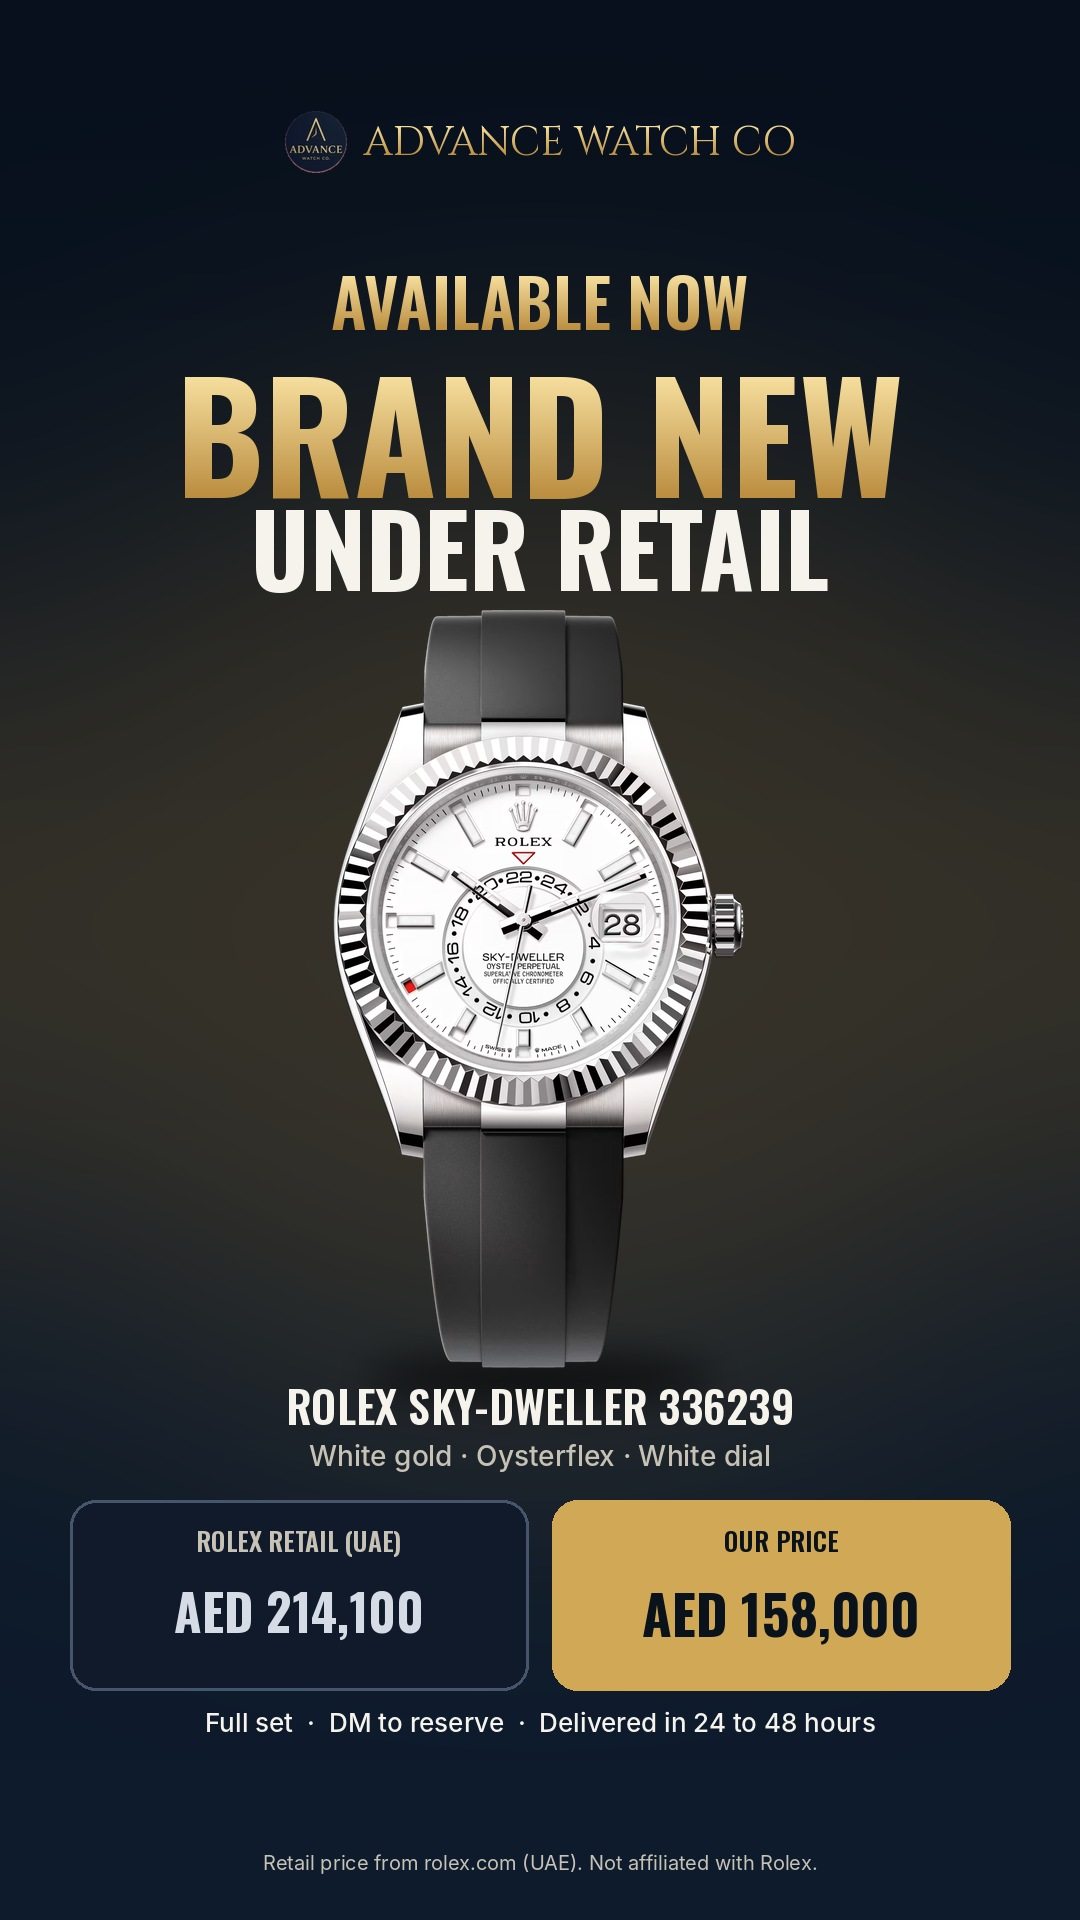
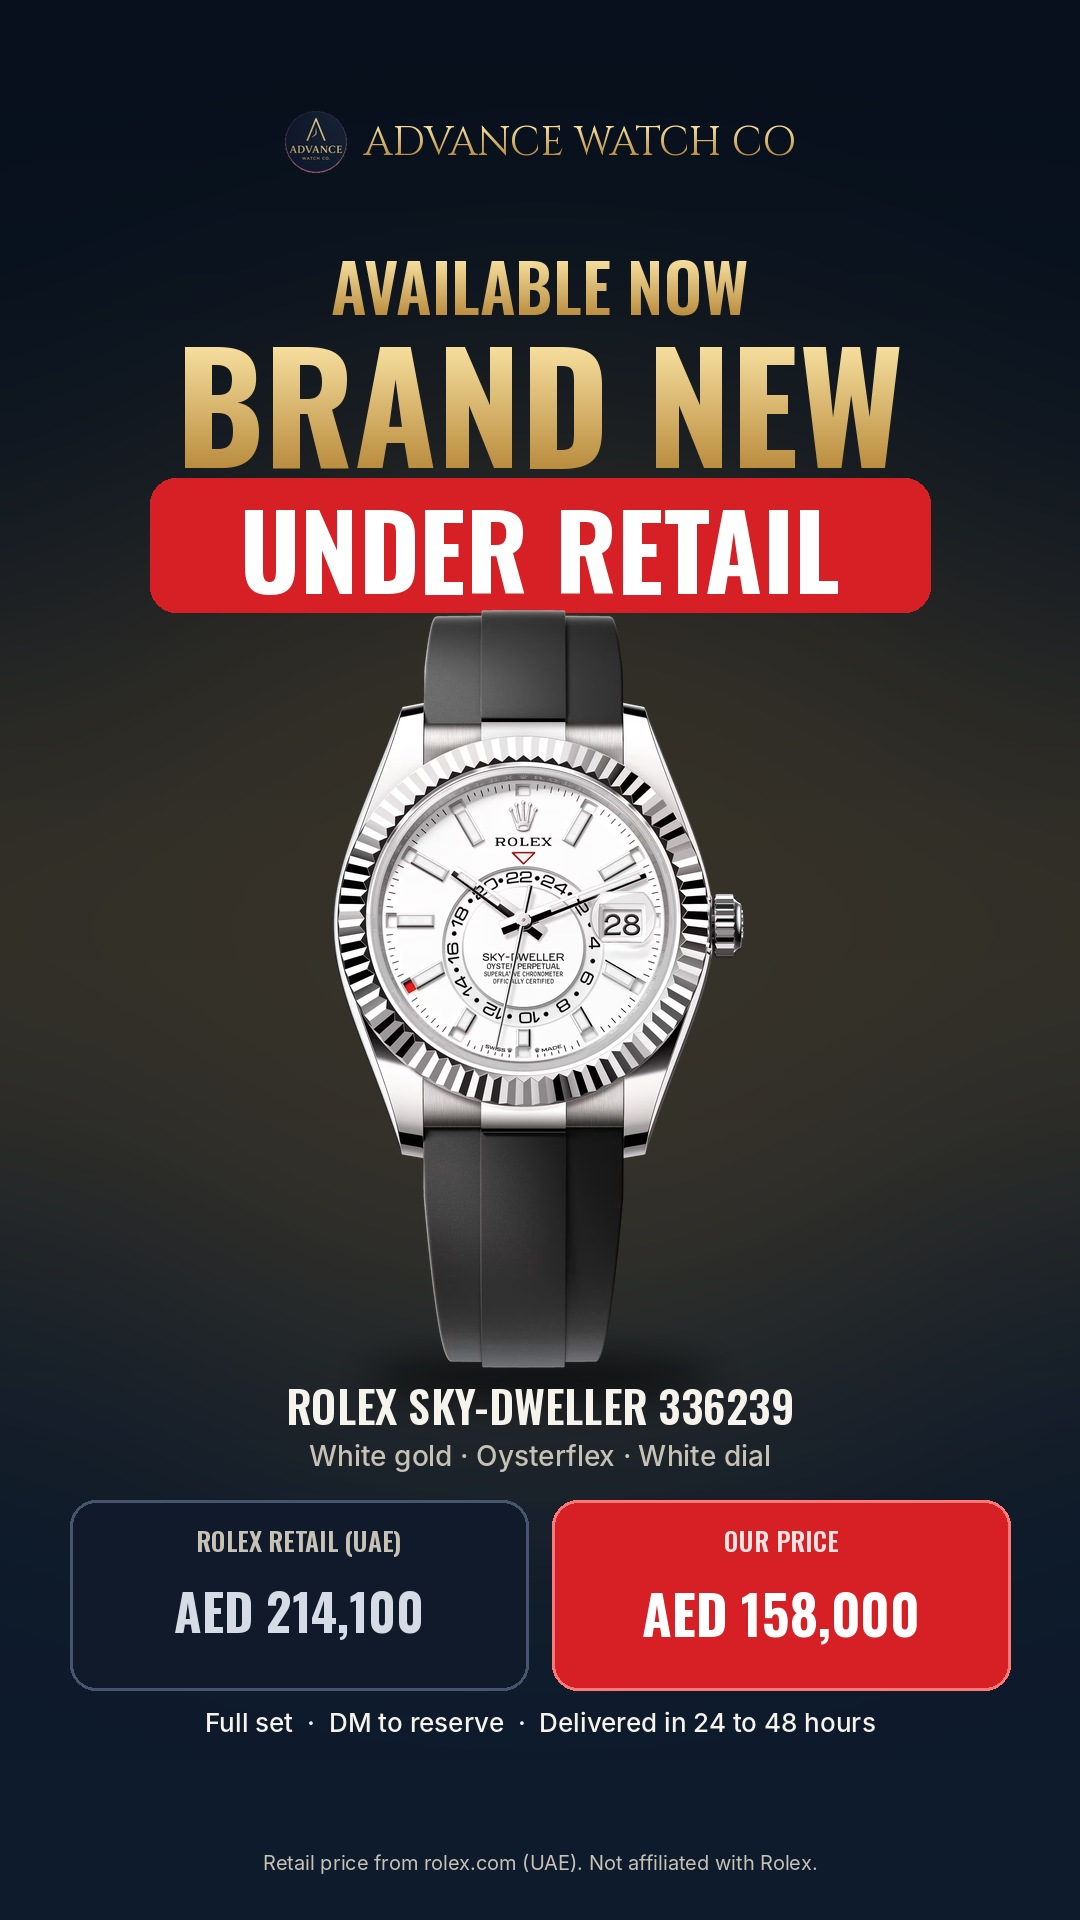
Sky-Dweller story: red under-retail styling + colour rule

Changed region(s): [[0.1222, 0.125, 0.8861, 0.3438], [0.4889, 0.7812, 0.9472, 0.9062]]

diff --git a/notes/instagram-post-playbook.md b/notes/instagram-post-playbook.md
@@ -6,3 +6,6 @@ Every Instagram post for Advance Watch Co is built to get STOPS, SAVES, SENDS, c
 - Real numbers only, source on slide, UAE prices may differ, not-affiliated line on every post that shows Rolex.
 - Caption: hook line, the list, then 3 calls to action (save / send / comment 1-5), course line, disclaimer, hashtags.
 - Course: $99 (was $439), link in bio.
+
+## Colour rule (from Tarek, Oct 30)
+Use RED to flag anything under retail / cheap / a deal (banner, price box, savings tag) so it grabs attention. Gold stays for brand accents, white for text.
